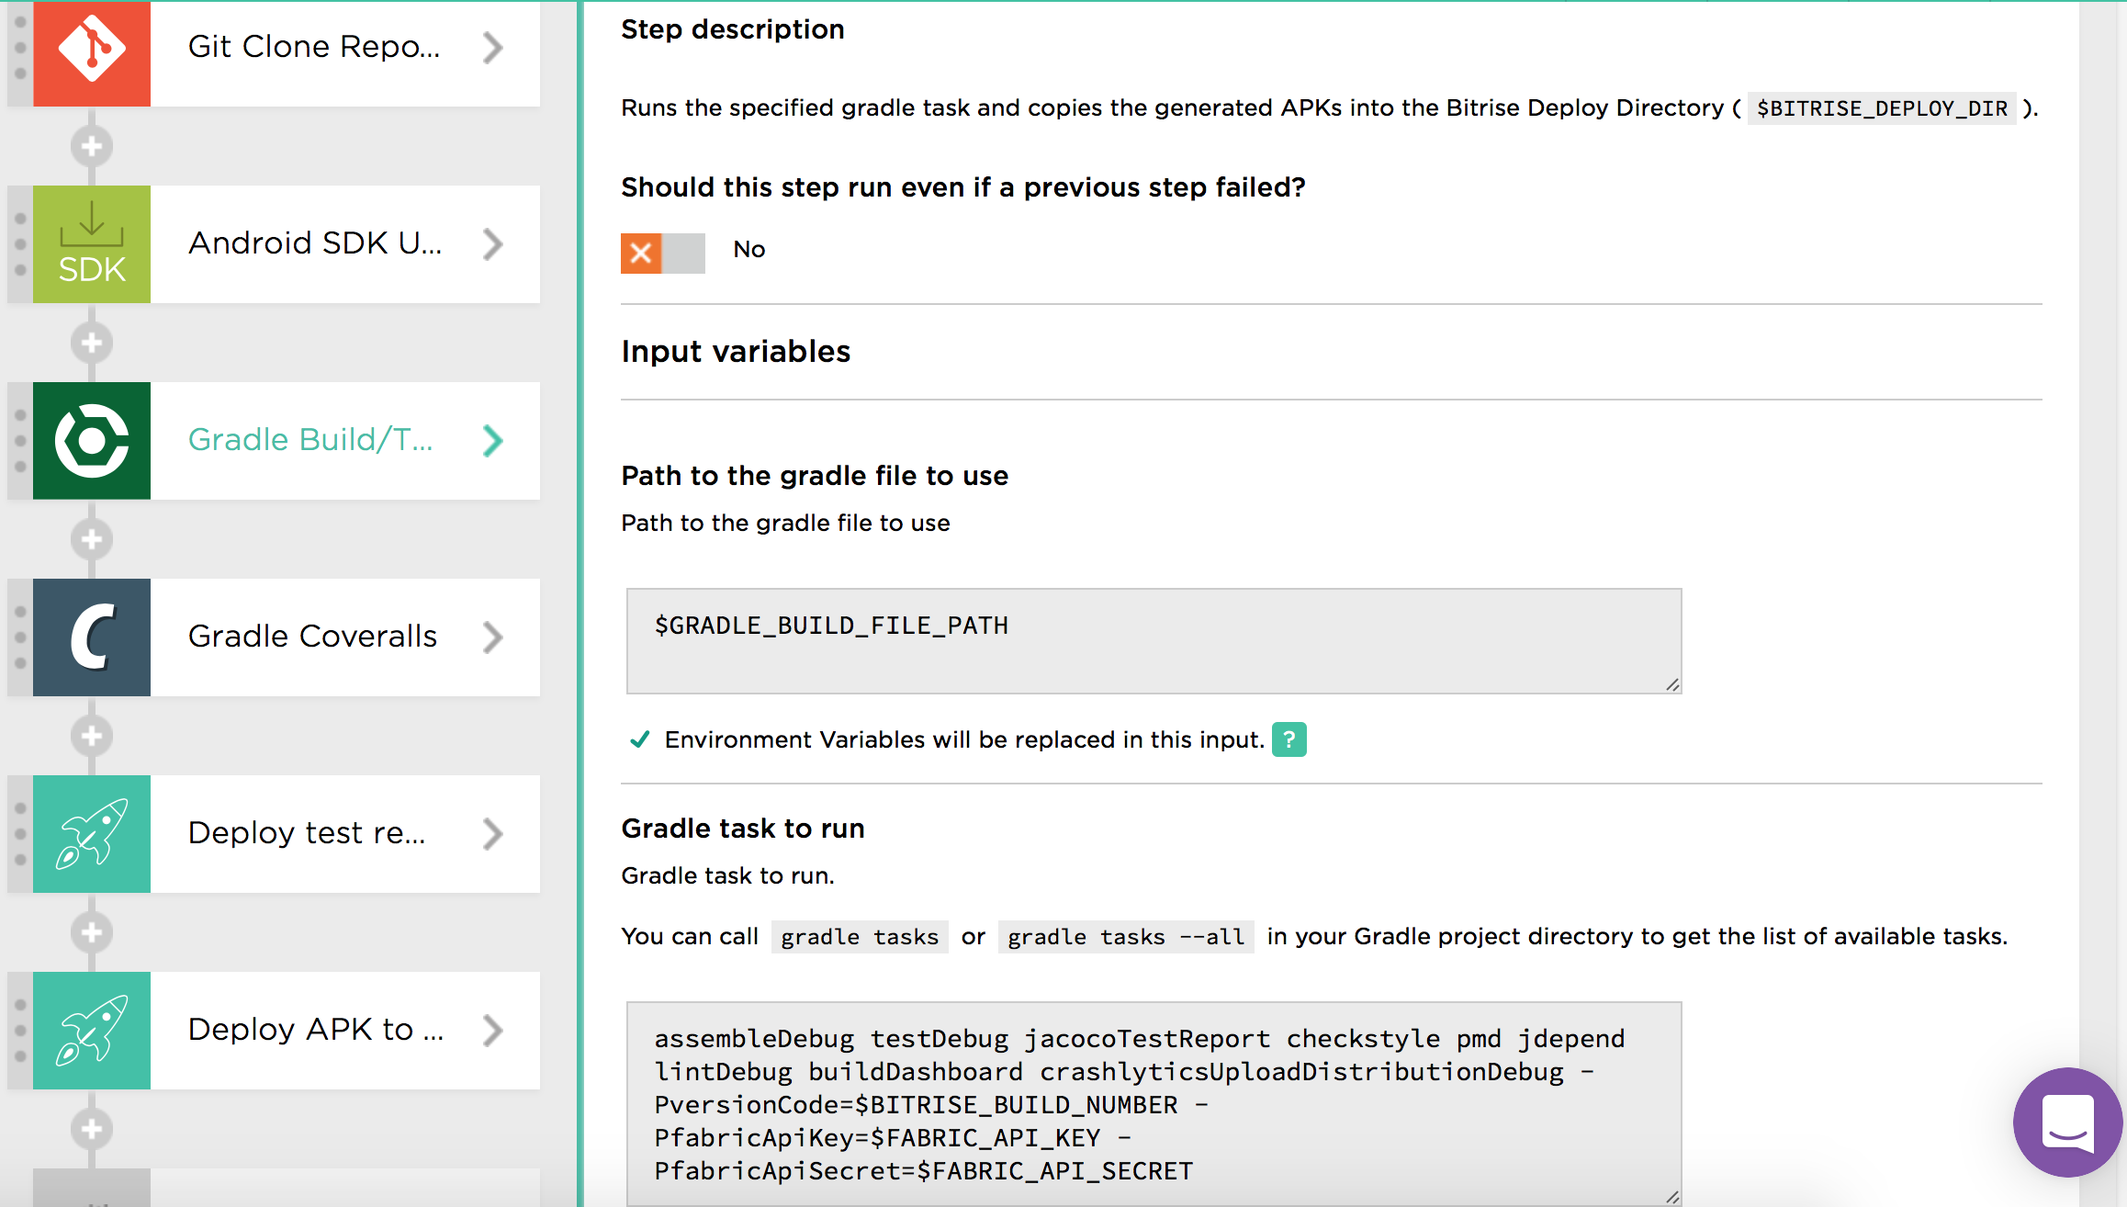
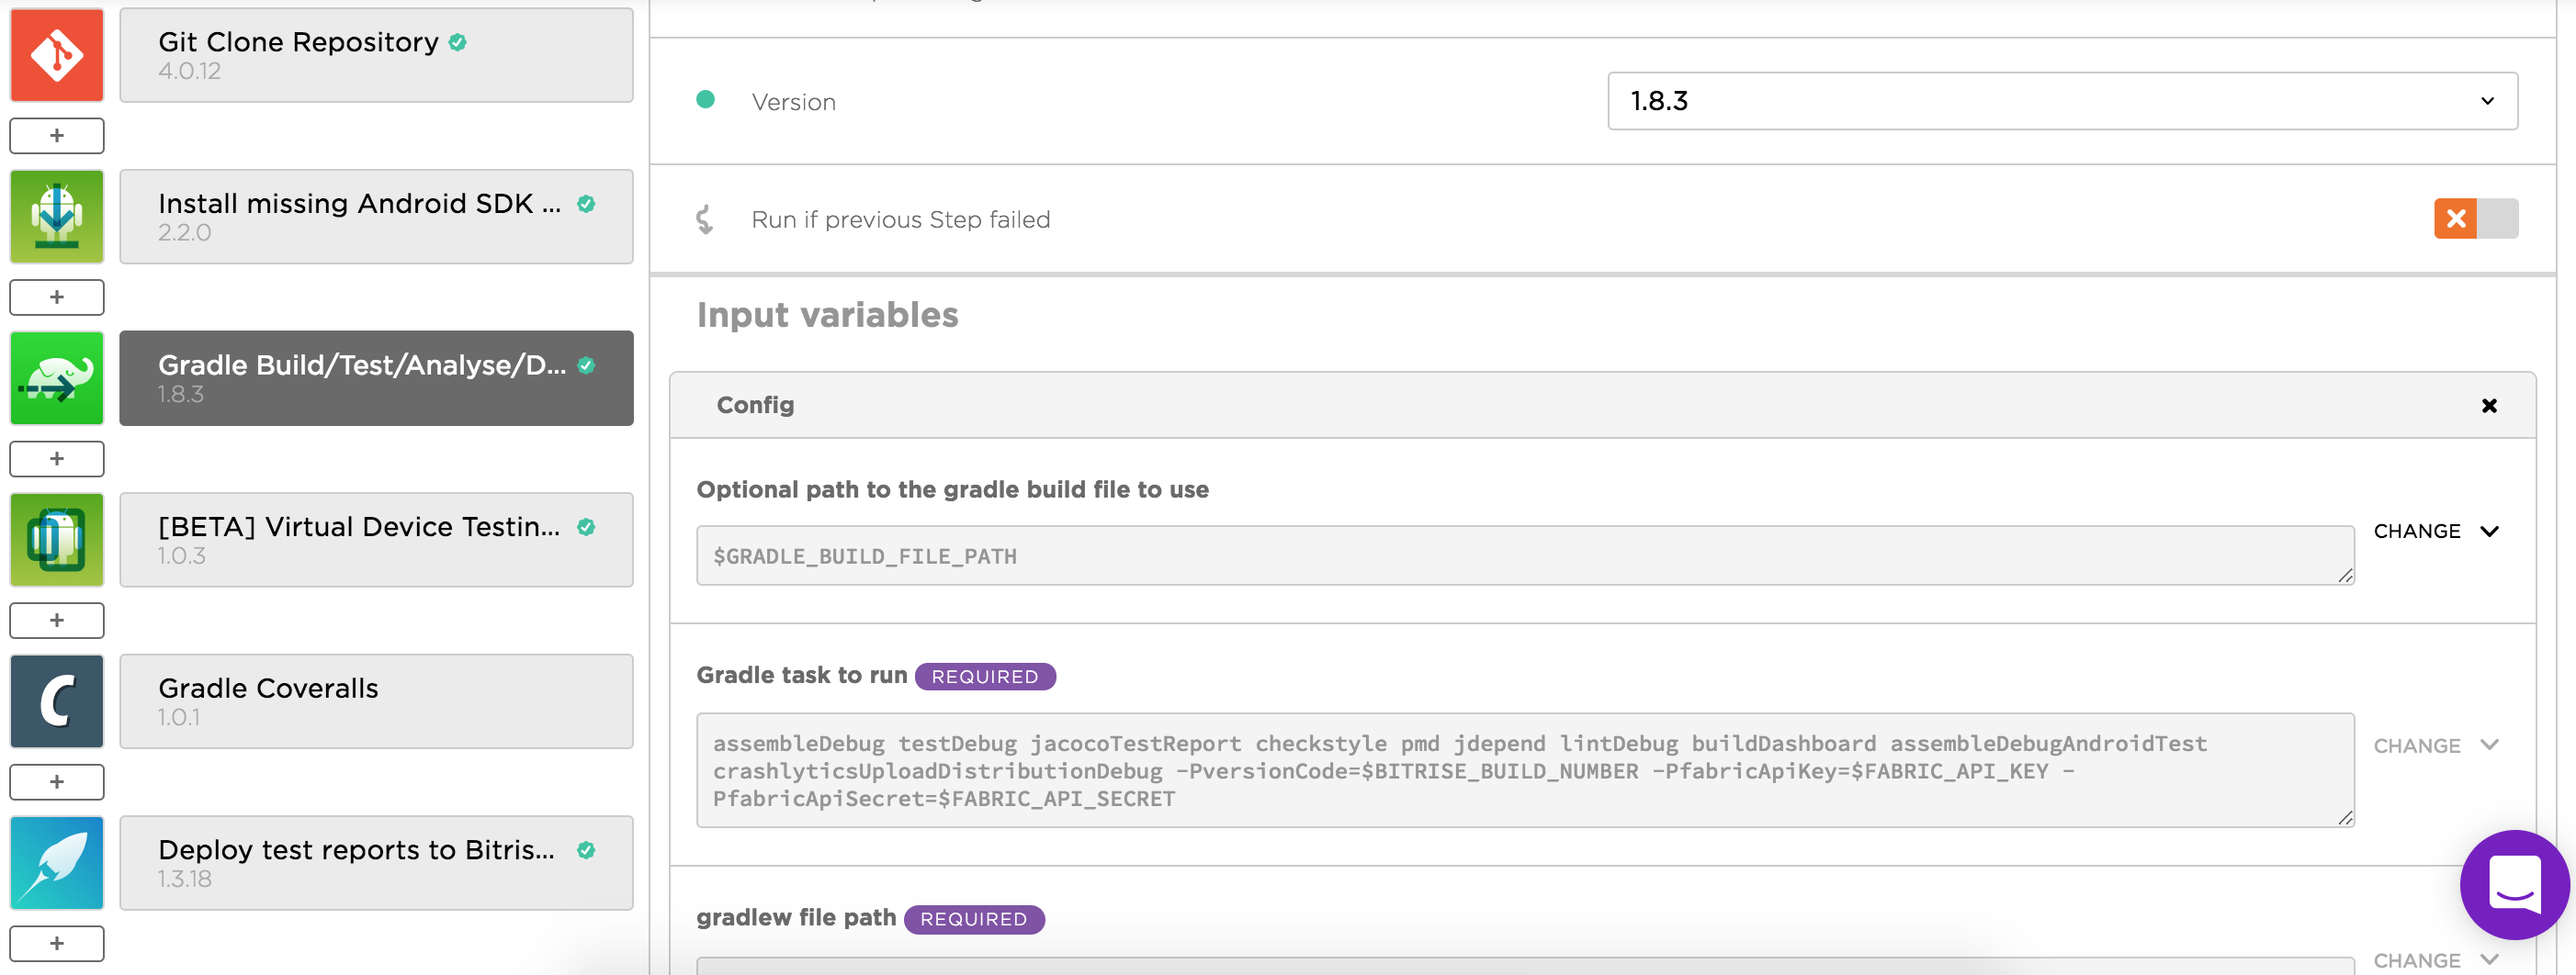
Use virtual device testing on bitrise.io (#24)
Updated the way UI tests are executed on bitrise.
Previously emulator was created/started manually.
Now dedicated bitrise step is used instead.
It's more stable as tests are being executed much faster
and we don't hit 600 secs build limit on a free plan.

Fixes #10

diff --git a/BITRISE.md b/BITRISE.md
@@ -20,7 +20,7 @@ Bitrise integrates with wide [list of services](https://www.bitrise.io/integrati
 Bitrise automatically registers webhook, which makes our lives even simplier.
 
     <img src="/screenshots/bitrise_add_new_app_3.png">
-    
+
 4. Configure build steps
     
     <img src="/screenshots/bitrise_build_steps.png">
@@ -28,12 +28,9 @@ Bitrise automatically registers webhook, which makes our lives even simplier.
     [.bitrise.yml](https://github.com/vgaidarji/ci-matters/tree/master/.bitrise.yml) contains full configuration without UI tests.
     
     [.bitrise-with-ui-tests.yml](https://github.com/vgaidarji/ci-matters/tree/master/.bitrise-with-ui-tests.yml) contains full configuration + UI tests.
-    
+    It uses ["Virtual Device Testing for Android step"](https://blog.bitrise.io/introducing-solid-and-snappy-virtual-device-testing-for-android).
+
     These configurations can be imported to bitrise.io. To achieve that create new workflow or edit existing, navigate to `Workflow Editor -> bitrise.yml` and paste file content there.
-    
-    `.bitrise-with-ui-tests.yml` configuration **might abort builds** on bitrise.io due to the limit of 600 seconds maximum on a free plan.
-    
-    <img src="/screenshots/bitrise_aborted_build_timeout.png">
 
 5. Add environment variables
 
@@ -41,4 +38,4 @@ Bitrise automatically registers webhook, which makes our lives even simplier.
     
 6. If everything goes fine we get successful build
 
-    <img src="/screenshots/bitrise_successful_build_no_ui_tests.png">
+    <img src="/screenshots/bitrise_successful_build.png">
